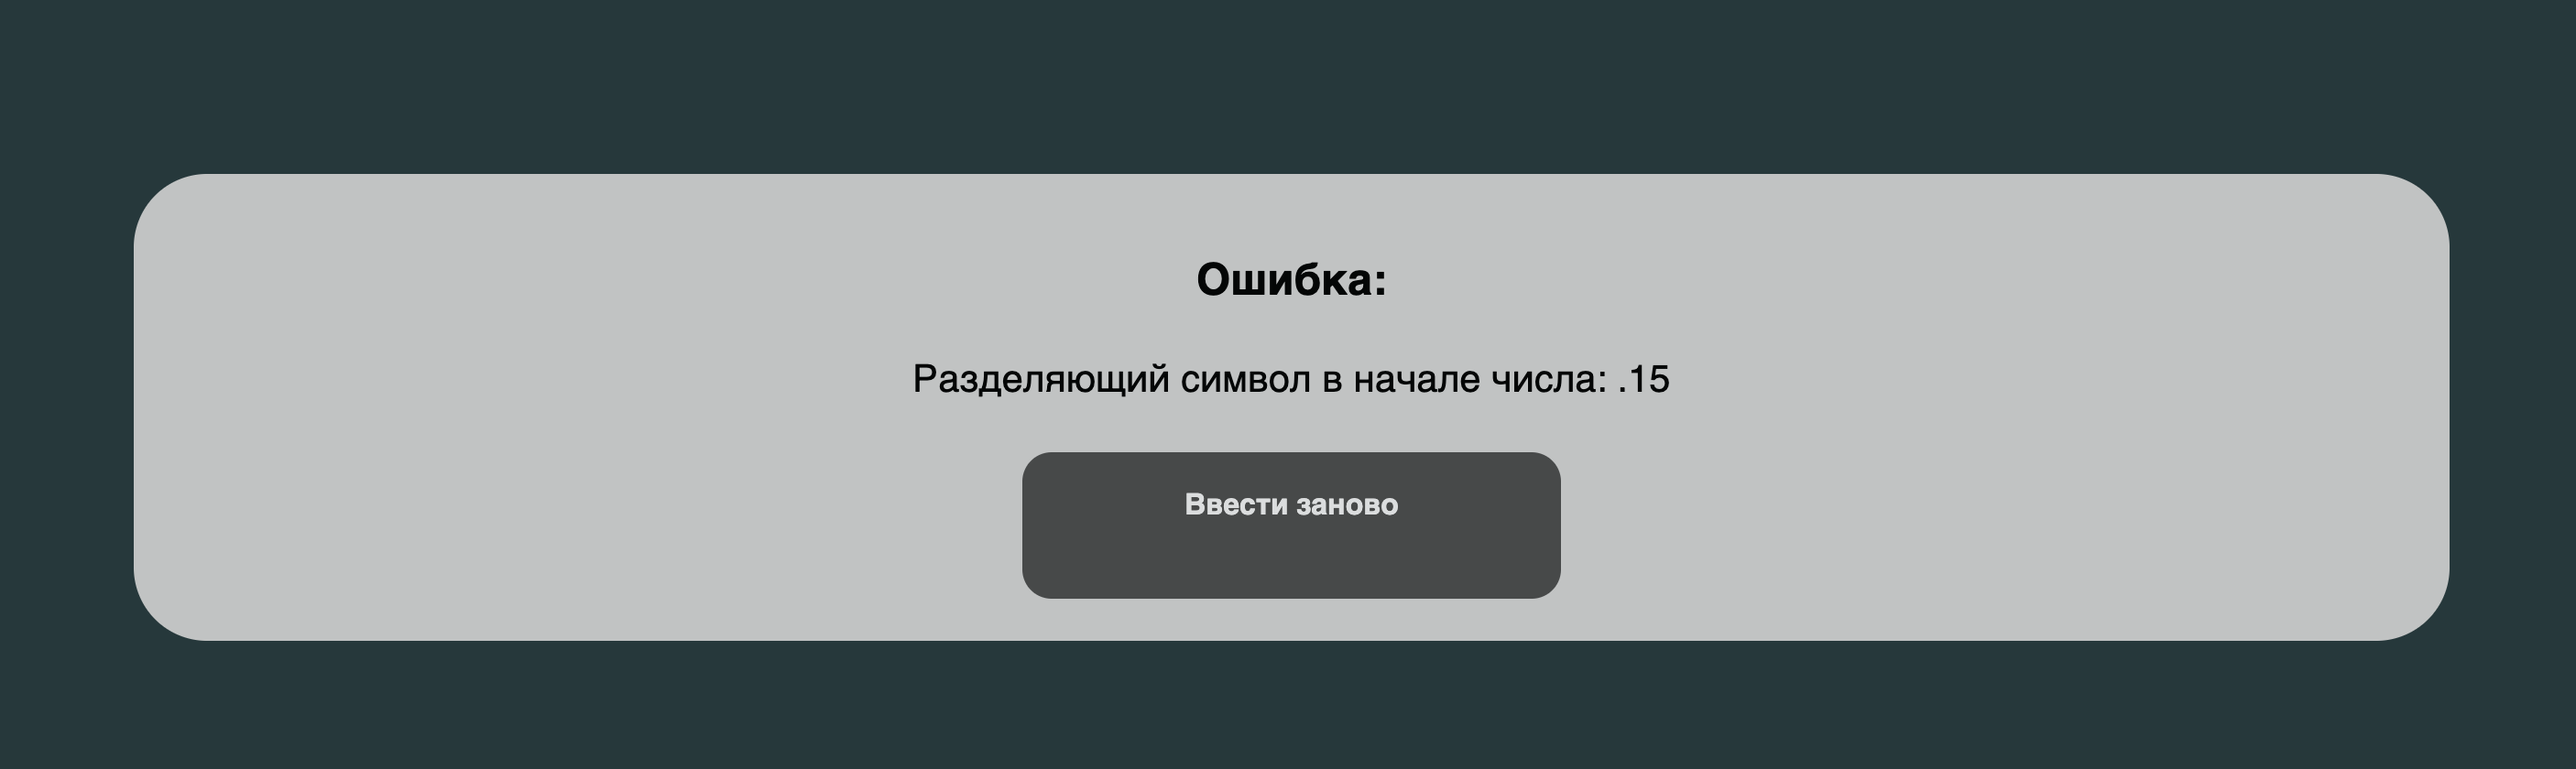
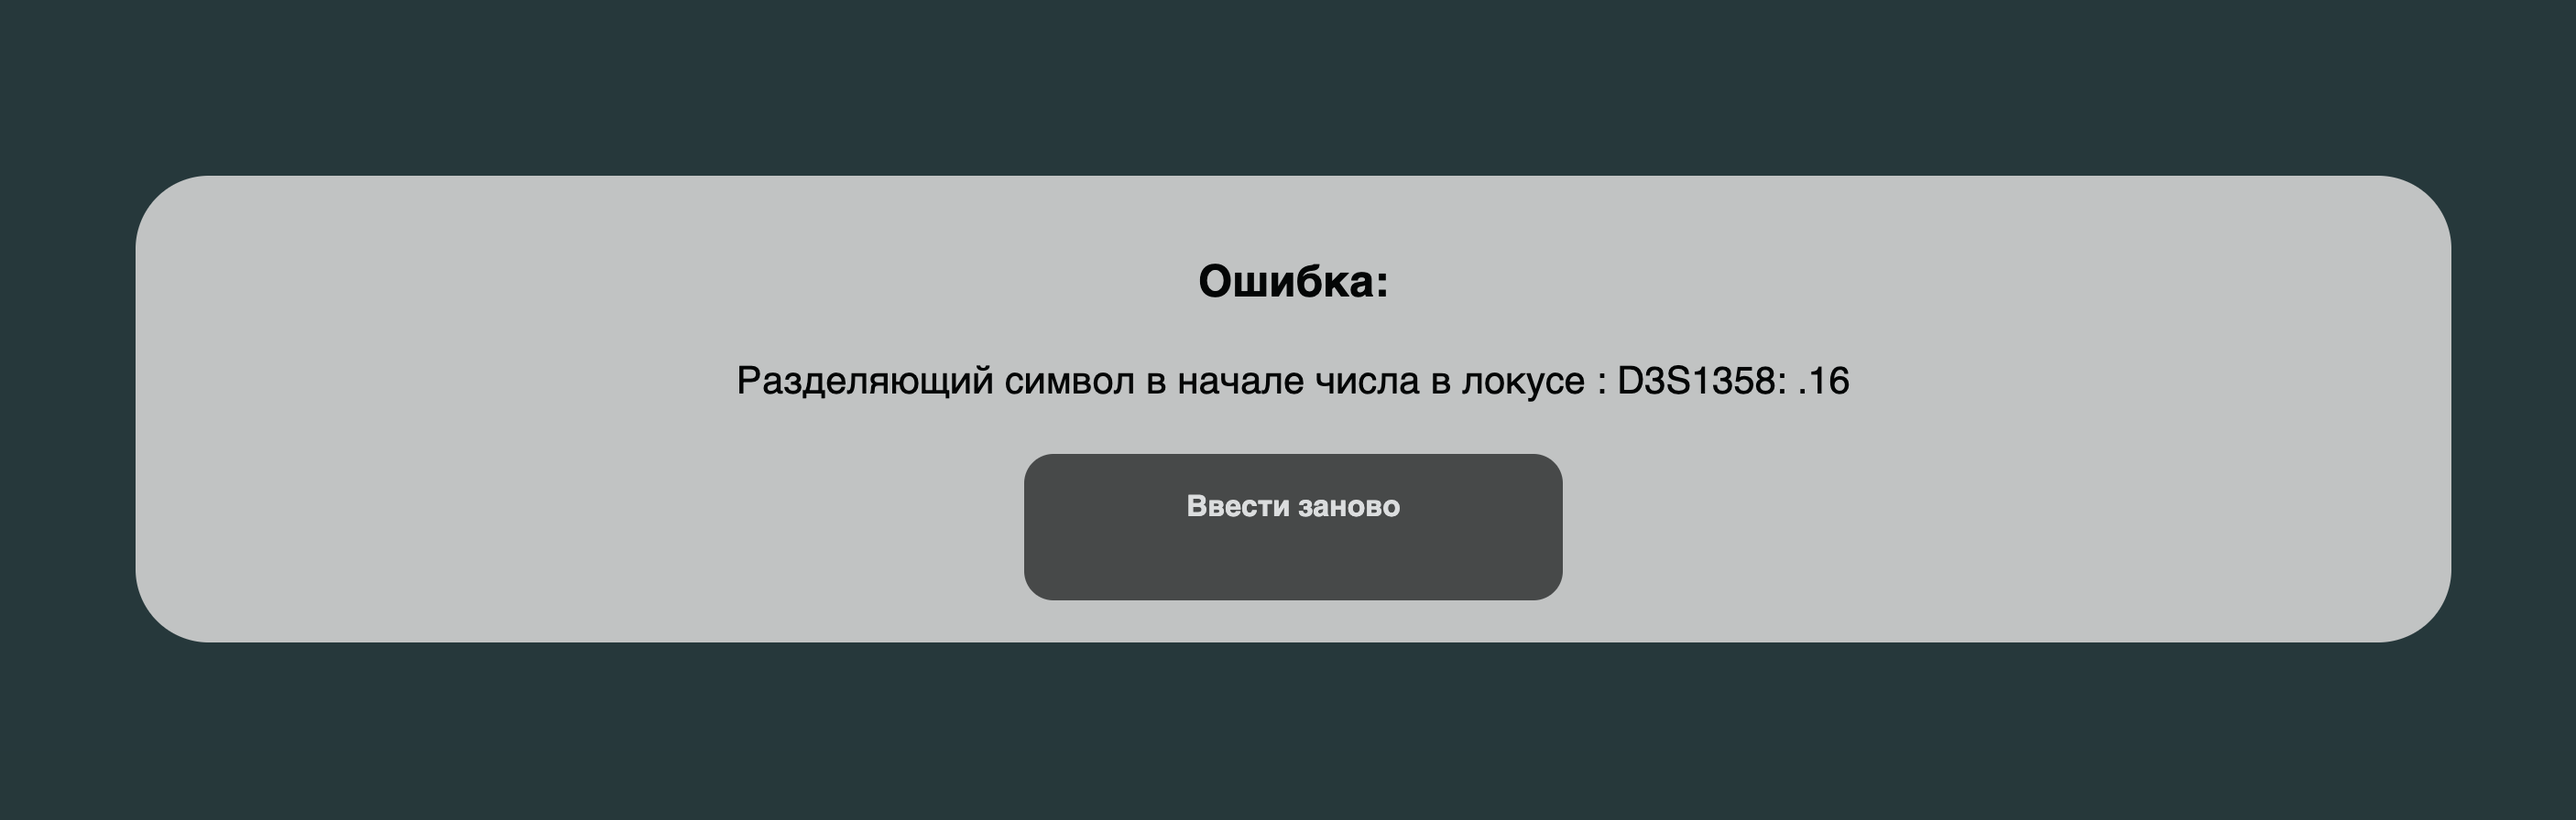
replaced pictures of delimiting first and last, added new phrases to exceptions

diff --git a/cognation/formulas/base.py b/cognation/formulas/base.py
@@ -63,19 +63,21 @@ class TooManyDelimitingSymbols(Exception):
 
 
 class DelimitingLast(Exception):
-    def __init__(self, alleles):
+    def __init__(self, alleles, locus):
         self.alleles = alleles
+        self.locus = locus
 
     def __str__(self):
-        return "Разделяющий символ в конце числа: " + str(self.alleles)
+        return "Разделяющий символ в конце числа в локусе " + str(self.locus) + ": " + str(self.alleles)
 
 
 class DelimitingFirst(Exception):
-    def __init__(self, alleles):
+    def __init__(self, alleles, locus):
         self.alleles = alleles
+        self.locus = locus
 
     def __str__(self):
-        return "Разделяющий символ в начале числа: " + str(self.alleles)
+        return "Разделяющий символ в начале числа в локусе : " + str(self.locus) + ": " + str(self.alleles)
 
 
 class LociSetDoesNotEqual(Exception):
@@ -179,9 +181,9 @@ class Formula(abc.ABC):
                 return
 
             if allele[-1] == '.':
-                raise DelimitingLast(allele)
+                raise DelimitingLast(allele, locus)
             if allele[0] == '.':
-                raise DelimitingFirst(allele)
+                raise DelimitingFirst(allele, locus)
         if len(alleles) > 2:
             raise AllelesException(locus, alleles)
 
